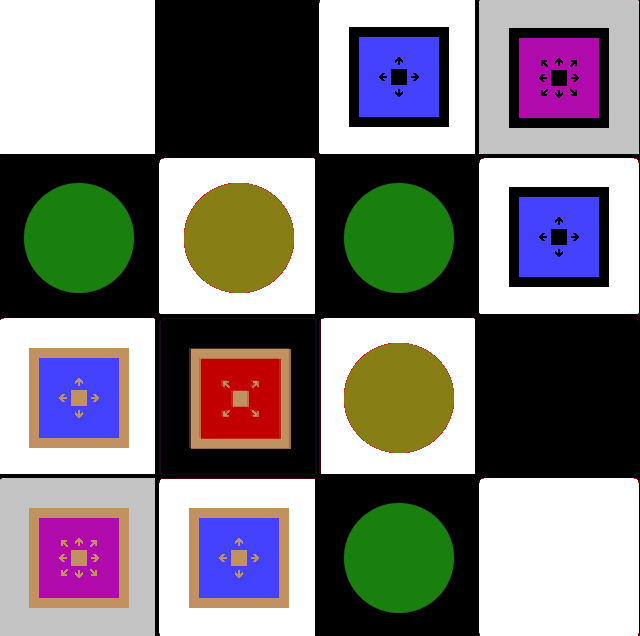
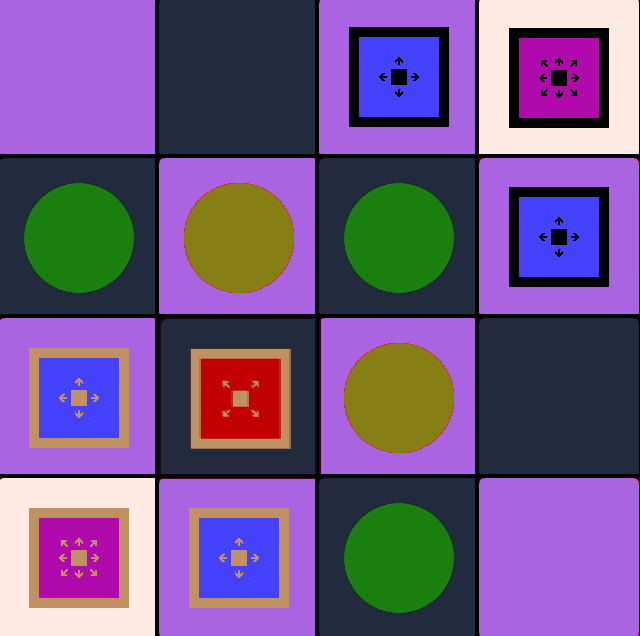
rules

diff --git a/deployfolder/public/rules.html b/deployfolder/public/rules.html
@@ -5,12 +5,20 @@
 	<link rel="stylesheet" href="https://stackpath.bootstrapcdn.com/bootstrap/4.5.2/css/bootstrap.min.css"/>
 	<!--<link rel="stylesheet" href="css/login.css"/>-->
     <link rel="stylesheet" href="css/rules.css"/>
+
+	<style>
+		body {
+		  background-image: url('img/sky.jpg');
+		}
+	</style>
   </head>
-  <body>
-    
-		
+  
+	
+	<body>	
+    <!--<img src="img/blue.png" class="img-fluid">-->
+	<div style="background-image: url('blue.png');"></div>
 		<div class="row-lg-7 py-5 px-5">
-			<h1 class="rule-title text-center px-5">The Rules Page (customize at your own risk)</h1>
+			<h1 class="rule-title text-center px-5">The Rules Page</h1>
 		</div>
 				
         <section class="form my-4 mx-5">

diff --git a/deployfolder/public/css/rules.css b/deployfolder/public/css/rules.css
@@ -5,16 +5,24 @@
 }
 
 body{
-    background: rgb(96, 99, 99);
+    /*background: rgb(96, 99, 99);*/
+    /*background-color: #cccccc;*/
     padding: 0;
     margin: 0;
     box-sizing: border-box;
 }
 
+.rule-title{
+    color: #a665e3;
+    font-size: xxx-large;
+    /*background: #2d3562;*/
+    border-radius: 20px;
+}
+
 .row{
-    background: rgb(58, 56, 56);
+    background: #2d3562;
     border-radius: 30px;
-    box-shadow: 12px 12px 22px rgb(255, 255, 255);
+    box-shadow: 12px 12px 22px #a665e3;
 }
     
 img{
